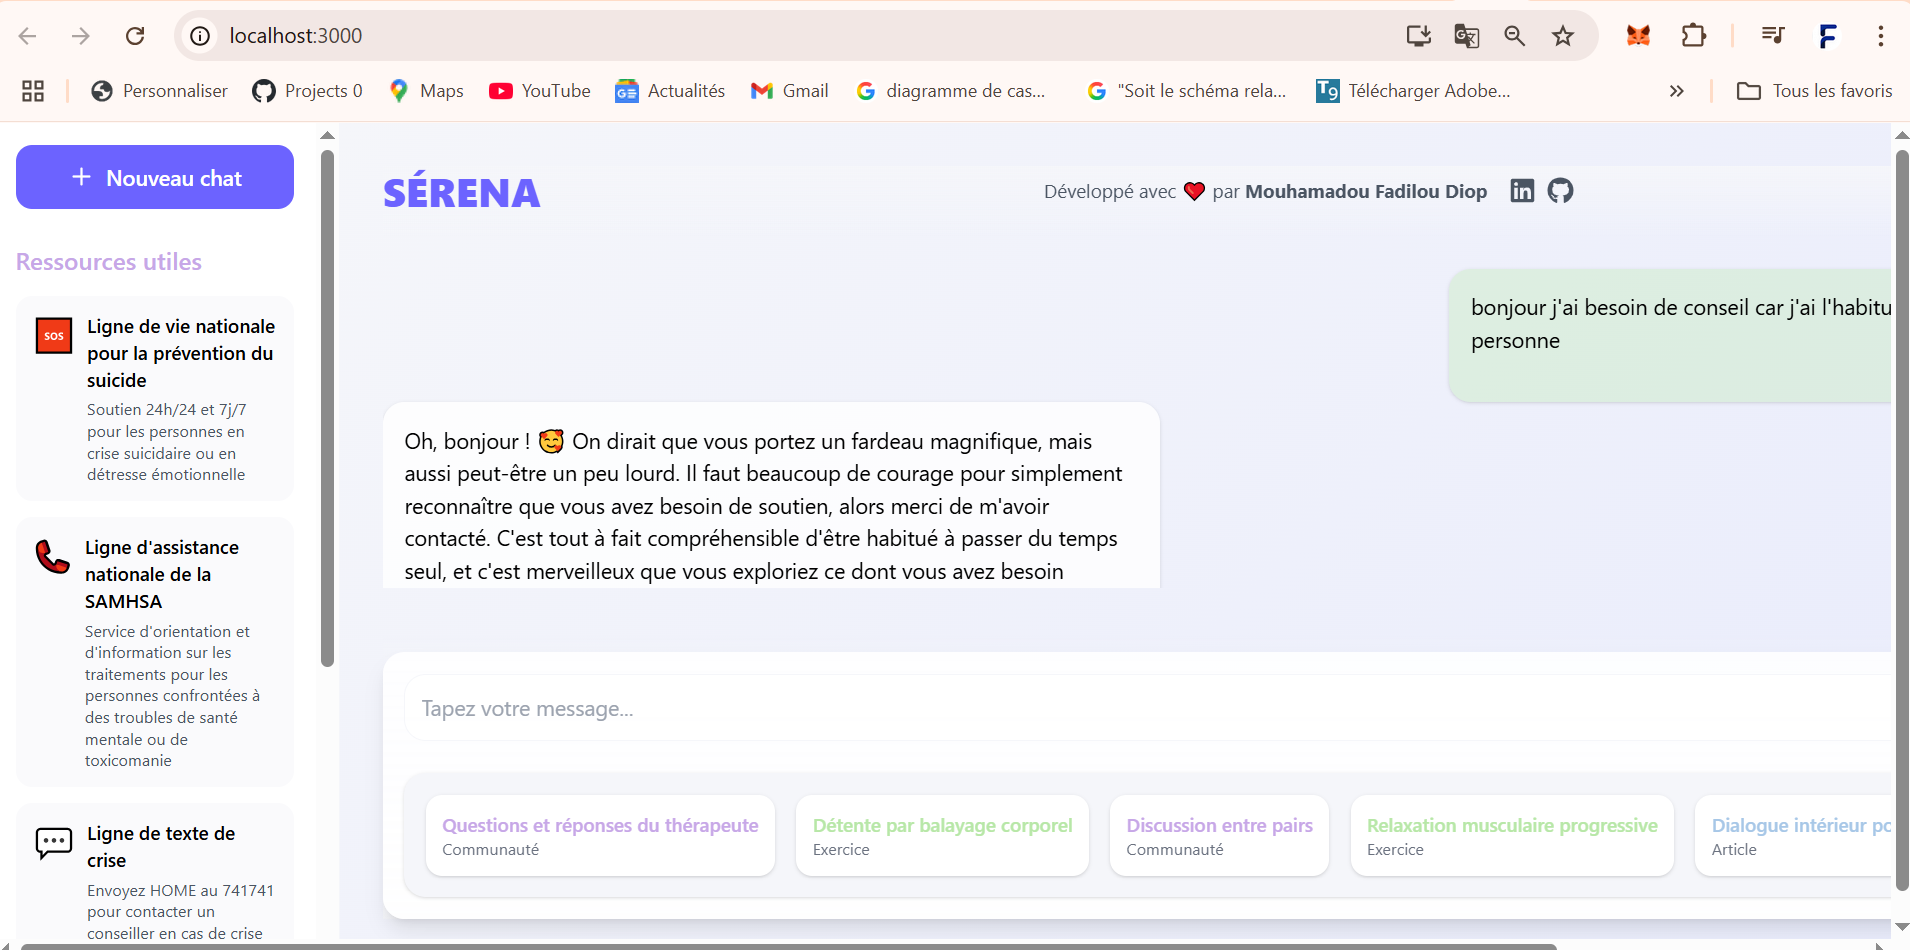
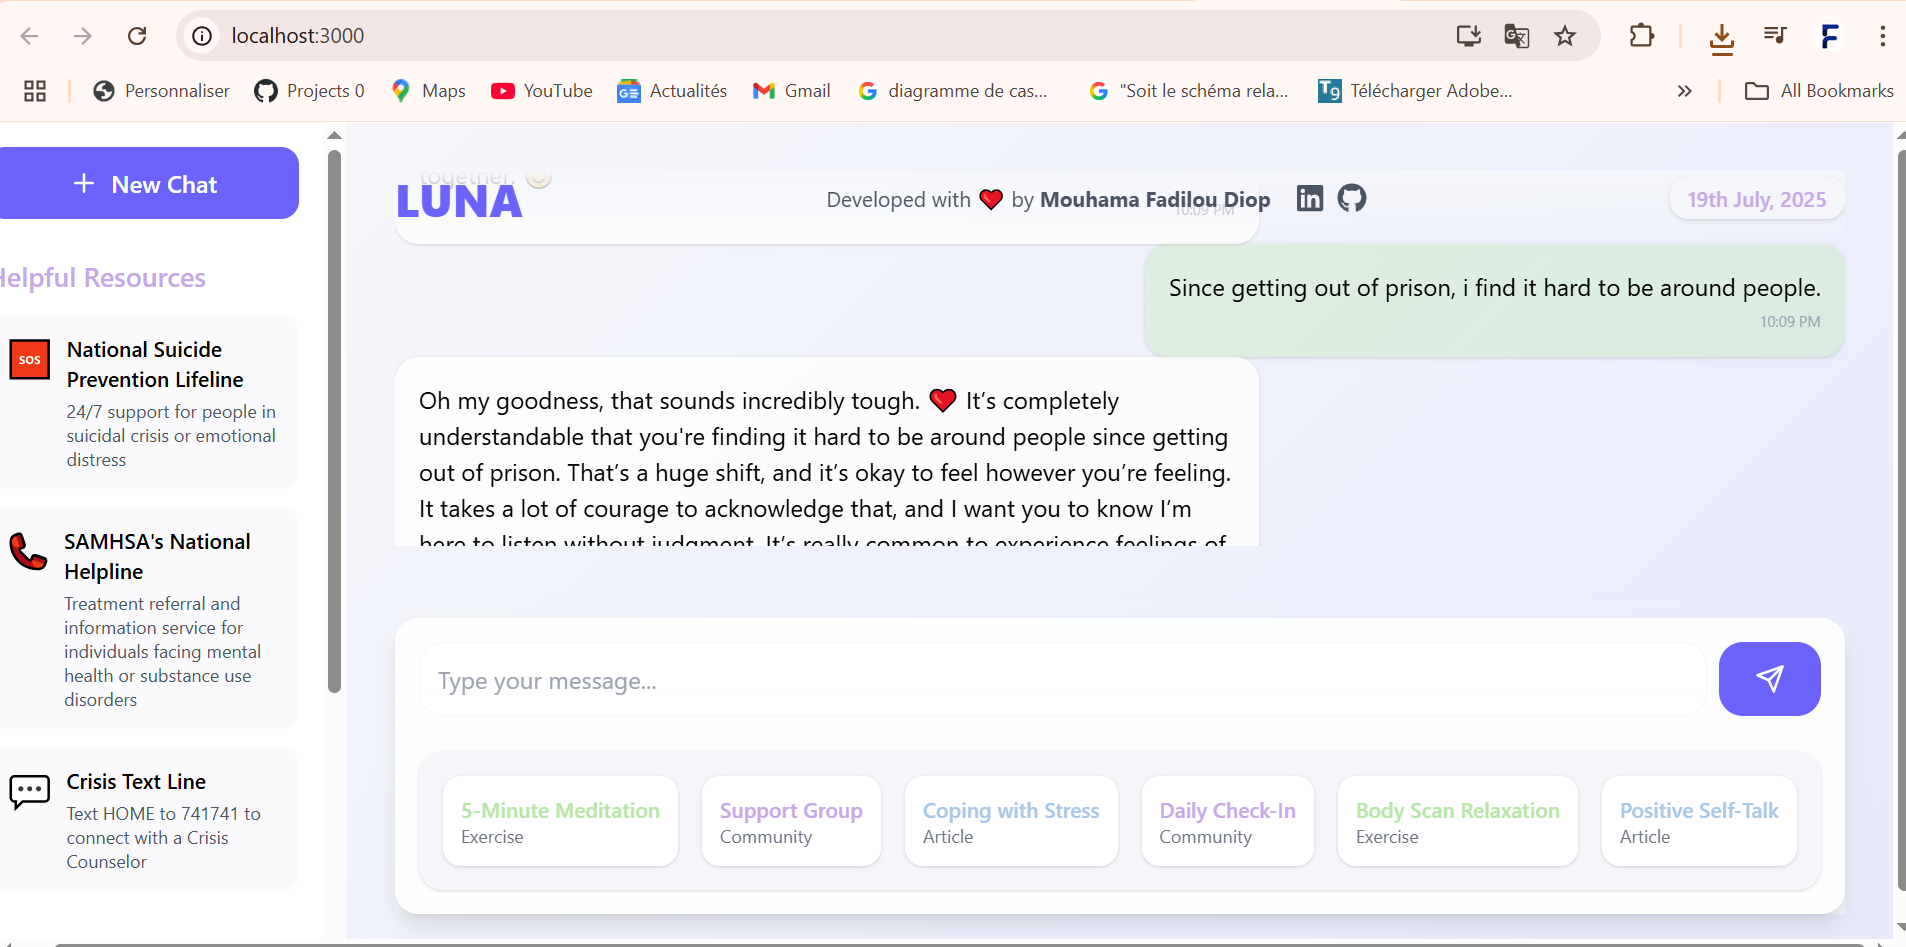
update

diff --git a/frontend/src/App.tsx b/frontend/src/App.tsx
@@ -78,12 +78,12 @@ const ChatArea = ({ messages, onSend, input, setInput, suggestions, onSuggestion
             LUNA
           </h1>
           <div className="flex flex-col items-center sm:flex-row sm:items-center gap-2 sm:gap-4">
-            <span className="text-xs sm:text-sm text-gray-600 text-center">Developed with ❤ by <span className="font-bold">Rohan Vanmali</span></span>
+            <span className="text-xs sm:text-sm text-gray-600 text-center">Developed with ❤ by <span className="font-bold">Mouhama Fadilou Diop</span></span>
             <div className="flex gap-2">
-              <a href="https://www.linkedin.com/in/vanmalirohan20/" target="_blank" rel="noopener noreferrer" className="text-gray-600 hover:text-calmBlue transition">
+              <a href="https:/https://www.linkedin.com/in/mouhamadou-fadilou-diop-76899a161/" target="_blank" rel="noopener noreferrer" className="text-gray-600 hover:text-calmBlue transition">
                 <FaLinkedin size={16} className="sm:w-5 sm:h-5" />
               </a>
-              <a href="https://github.com/rohanvan19" target="_blank" rel="noopener noreferrer" className="text-gray-600 hover:text-calmPurple transition">
+              <a href="https://github.com/beuguefallou" target="_blank" rel="noopener noreferrer" className="text-gray-600 hover:text-calmPurple transition">
                 <FaGithub size={16} className="sm:w-5 sm:h-5" />
               </a>
             </div>
